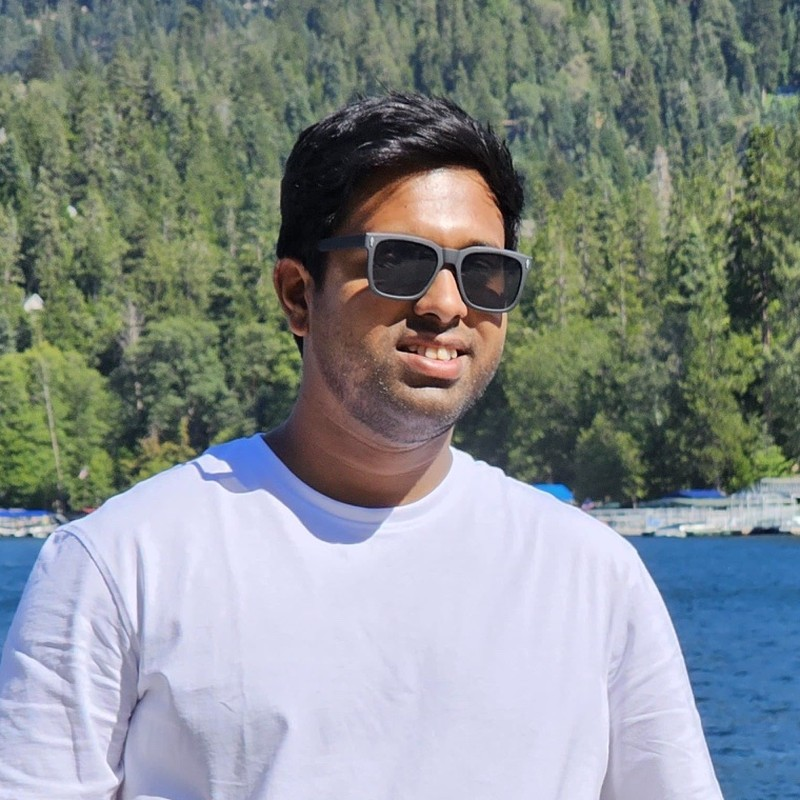
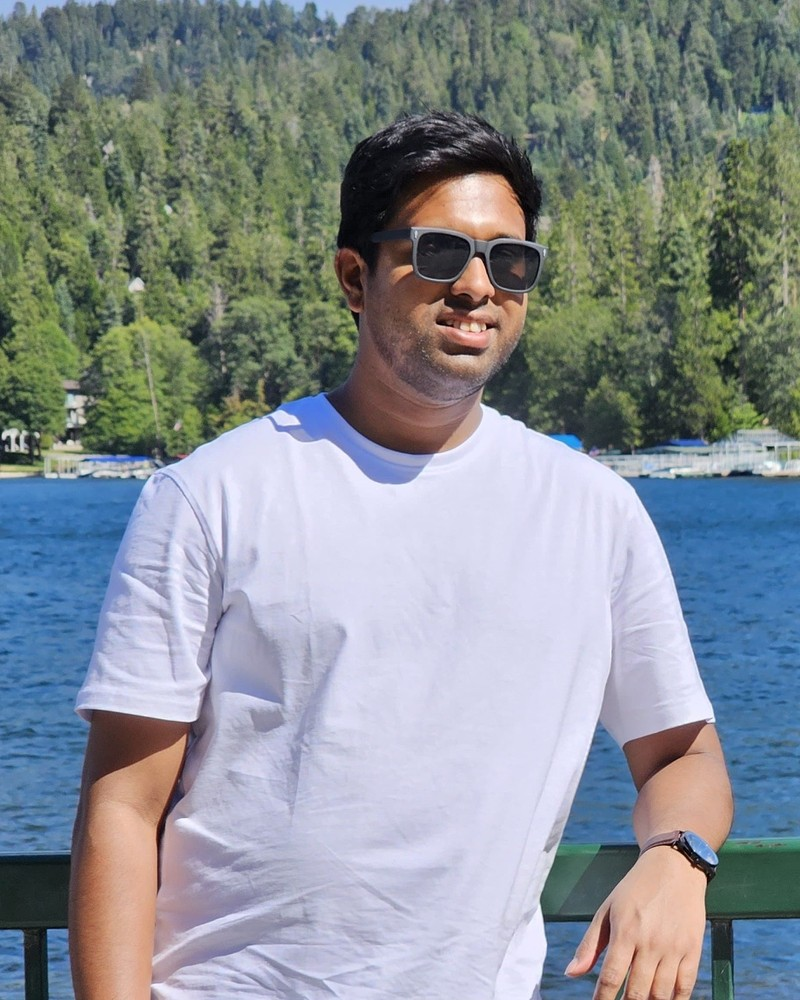
Bold full name, links row above Research Interests, wider photo; drop venue from submitted paper (#5)
Claude-Session: https://claude.ai/code/session_01C5m45BJPDeVtGfEyYRNHA3

diff --git a/_pages/about.md b/_pages/about.md
@@ -10,8 +10,6 @@ profile:
   image_circular: false # crops the image to make it circular
   more_info: >
     <p>Riverside, California</p>
-    <p><a href="mailto:ssaki004@ucr.edu">ssaki004@ucr.edu</a></p>
-    <p><a href="/cv/">CV</a> · <a href="https://scholar.google.com/citations?hl=en&user=uhqo-rcAAAAJ">Google Scholar</a> · <a href="https://github.com/Shahriarmsakib">GitHub</a></p>
 
 selected_papers: true # includes a list of papers marked as "selected={true}"
 social: true # includes social icons at the bottom of the page
@@ -29,6 +27,8 @@ I work at the intersection of applied machine learning, computer vision, and rob
 
 I received my M.S. in Robotics with a focus on Artificial Intelligence and Perception from the University of California, Riverside, where my work involved machine learning, perception, and sensor based systems. I currently work as a Research Data Analyst II at the California Employment Development Department, where I develop analytical workflows and data pipelines for large scale administrative datasets. My broader research goal is to develop reliable and generalizable learning systems for perception, sensing, and intelligent robotic applications.
 
+[ssaki004@ucr.edu](mailto:ssaki004@ucr.edu) · [CV](/cv/) · [Google Scholar](https://scholar.google.com/citations?hl=en&user=uhqo-rcAAAAJ) · [GitHub](https://github.com/Shahriarmsakib)
+
 **Research Interests**
 
 - **Robust and generalizable machine learning:** understanding model behavior under distribution shift, noisy or incomplete inputs, and changing deployment conditions
@@ -38,5 +38,3 @@ I received my M.S. in Robotics with a focus on Artificial Intelligence and Perce
 - **ML for science and health:** applying machine learning to biomedical imaging, environmental forecasting, and other scientific data
 
 **Background:** M.S. Robotics (AI & Perception), UC Riverside, 2023 · B.Sc. Electrical & Electronic Engineering, Military Institute of Science and Technology (MIST), 2018 · Research Data Analyst II, California Employment Development Department, 2024–present
-
-[Publications](/publications/) · [Research & projects](/projects/) · [CV](/cv/) · [Google Scholar](https://scholar.google.com/citations?hl=en&user=uhqo-rcAAAAJ) · [GitHub](https://github.com/Shahriarmsakib) · [Email](mailto:ssaki004@ucr.edu)

diff --git a/_projects/1_emg_robust.md b/_projects/1_emg_robust.md
@@ -1,7 +1,7 @@
 ---
 layout: page
 title: "Robustness Evaluation for EMG-Based Pose Estimation Models under Controlled Perturbations"
-description: Submitted, HRI 2027 Short Contributions. A lightweight toolkit for evaluating EMG pose estimation models under controlled input perturbations.
+description: Manuscript under anonymous peer review. A lightweight toolkit for evaluating EMG pose estimation models under controlled input perturbations.
 img: assets/img/projects/emg_robust_perturbations.png
 importance: 1
 category: research
@@ -10,7 +10,7 @@ related_publications: true
 ---
 
 {% cite sakib2026robustness %}<br>
-**Status:** Submitted, HRI 2027 Short Contributions. Manuscript currently under anonymous peer review. · **Code:** [GitHub](https://github.com/Shahriarmsakib/emg-robust-toolkit)
+**Status:** Manuscript currently under anonymous peer review. · **Code:** [GitHub](https://github.com/Shahriarmsakib/emg-robust-toolkit)
 
 Developed a lightweight stress-testing toolkit for EMG pose estimation models using controlled perturbations such as additive noise, channel dropout, amplitude scaling, and temporal shift. The work compares model failure profiles under changing sensing conditions and studies robustness considerations for downstream human robot interaction.
 

diff --git a/_news/2026-10-01-emg-robust-submitted.md b/_news/2026-10-01-emg-robust-submitted.md
@@ -5,4 +5,4 @@ inline: true
 related_posts: false
 ---
 
-Submitted a manuscript on robustness evaluation for EMG-based pose estimation models under controlled perturbations to HRI 2027 Short Contributions; it is currently under anonymous peer review. [GitHub](https://github.com/Shahriarmsakib/emg-robust-toolkit)
+Submitted a manuscript on robustness evaluation for EMG-based pose estimation models under controlled perturbations It is currently under anonymous peer review. [GitHub](https://github.com/Shahriarmsakib/emg-robust-toolkit)
